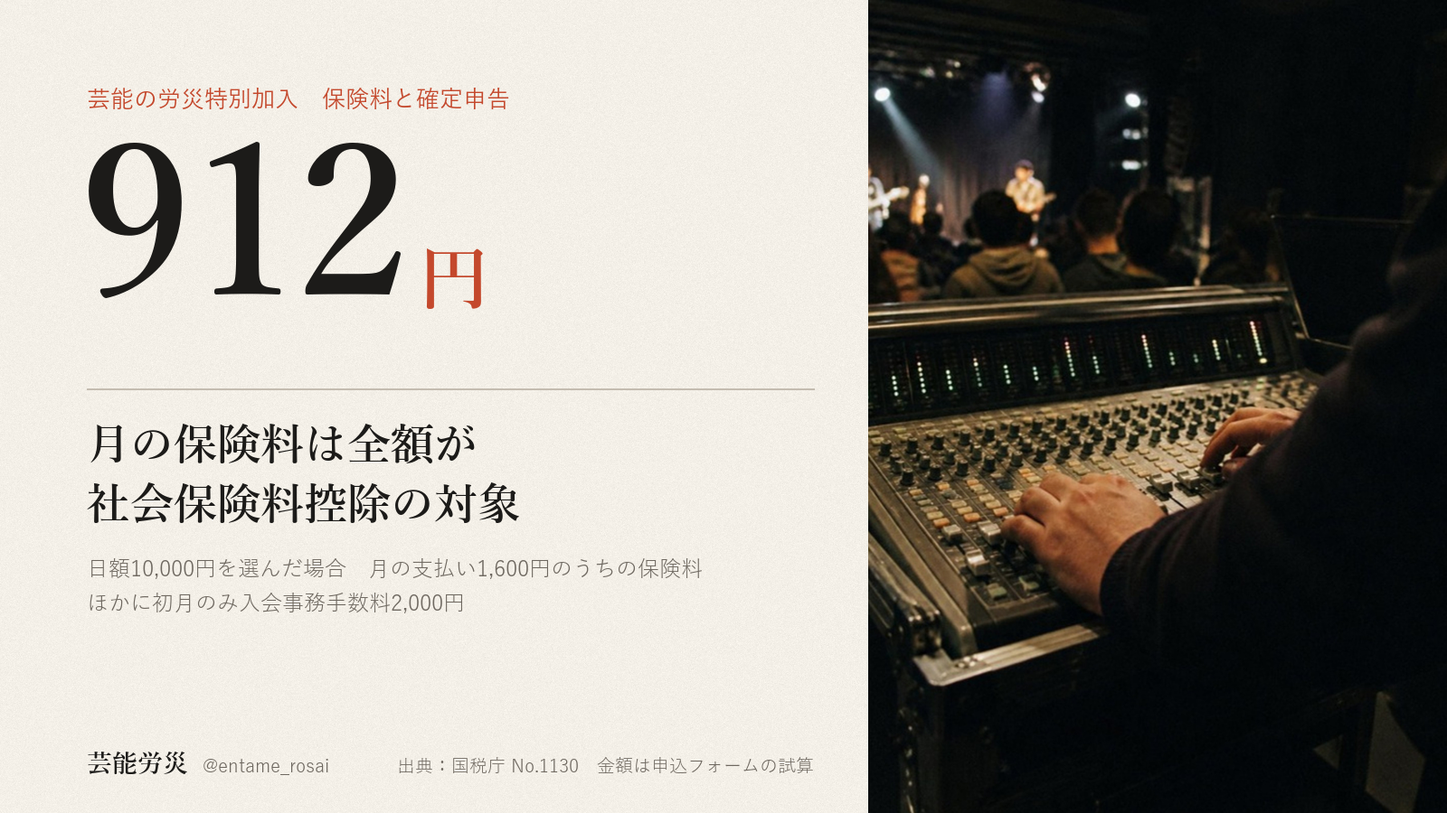
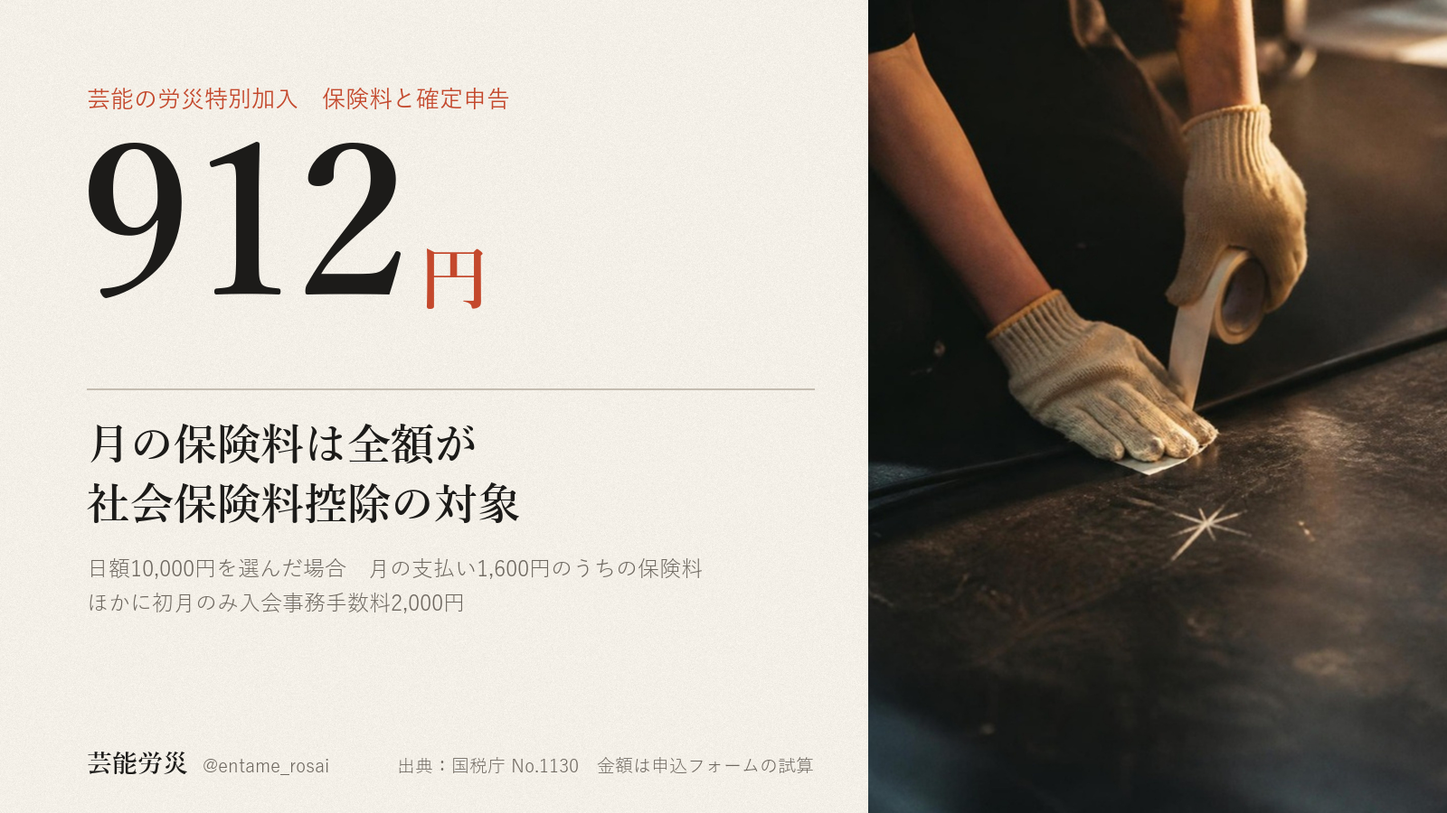
投稿デスク更新 2026-11-12

Changed region(s): [[0.5938, 0.0, 1.0, 1.0], [0.5938, 0.84, 0.6875, 1.0], [0.625, 0.4356, 0.6562, 0.4667]]

diff --git a/index.html b/index.html
@@ -351,7 +351,7 @@ dialog img{width:100%;height:auto;border-radius:18px;display:block}
 <div class="toast" id="toast">コピーしました</div>
 <dialog id="zoom"><img alt=""></dialog>
 
-<script id="desk-data" type="application/json">{"account":"@entame_rosai","days":[{"date":"2026-11-12","label":"11月12日（木）　今日","items":[{"key":"ig","date":"2026-11-01","label":"Instagram（@entame_rosai）","account":"@entame_rosai","text":"労災の特別加入は、申込のときに「何月から入るか」「何か月入るか」「給付基礎日額をいくらにするか」の3つを自分で決めます。\n\n何月から入るかは、11月1日時点の申込フォームでは2026年11月から2027年3月までの中から選べます。何か月入るかは1か月から。公演や撮影の期間に合わせて決められます。\n\n給付基礎日額は、補償の基準になる1日あたりの額です。3,500円から25,000円までの16段階から、実際の収入とは切り離して自分で選びます。\n\n毎月の支払いは、日額10,000円を選んだ場合で月1,600円。内訳は保険料912円、組合費500円、手数料188円です。ほかに入会事務手数料2,000円が初月だけかかるので、初月の支払いは3,600円です。保険料912円の部分は社会保険料控除の対象です。\n\nひとつ大事なことがあります。さかのぼって入ることはできません。補償は申込で選んだ月から始まり、それより前のけがは対象になりません。現場の予定が決まったら、先に手続きを済ませておく形です。\n\n手続きはプロフィール欄のサイトからできます。迷う点があれば、コメントに書いてもらえれば調べます。\n\n私たちは東京労働局長の承認を受けた労災保険特別加入団体で、加入の受付もしている当事者です。そのうえで書いています。特別加入を扱う団体は、私たちのほかにもあります。\n\n※給付の可否・金額は個別の状況により労働基準監督署が判断します。\n※金額は、給付基礎日額10,000円を選んだ場合の例です。","chars":628,"lines":16,"hashtags":0,"limit":0,"status":"生成済・未投稿（本人の投稿許可あり。Chrome で instagram.com を開く操作が承認待ちのまま5分応答がなく送信されず。次に本人がいるときに投稿する）","url":"","images":[{"name":"01.png","path":"assets/2026-11-01/instagram/01.png"},{"name":"02.png","path":"assets/2026-11-01/instagram/02.png"},{"name":"03.png","path":"assets/2026-11-01/instagram/03.png"},{"name":"04.png","path":"assets/2026-11-01/instagram/04.png"},{"name":"05.png","path":"assets/2026-11-01/instagram/05.png"},{"name":"06.png","path":"assets/2026-11-01/instagram/06.png"},{"name":"07.png","path":"assets/2026-11-01/instagram/07.png"}],"alt":"--- 1枚目 ---\n暗い劇場の舞台の縁に腰かけ、赤い客席を見ている人の後ろ姿の写真。文字：フリーランスの労災保険。加入の手続き。申込で決めることと毎月の支払い。さかのぼって入ることはできないので、先に手続きの中身をまとめました。芸能労災 @entame_rosai 01/07\n\n--- 2枚目 ---\n上半分は夕方の住宅街の路上で、ブームマイクを掲げる録音係とカメラを担ぐ撮影係の後ろ姿の写真。下は生成り色の紙面。文字：申込で決めること1。何月から入るか。開始月は申込のときに選びます。11月1日時点では、2026年11月から2027年3月までの中から選べます。補償は、選んだ月から始まります。出典：当団体申込フォーム（11月1日時点）。02/07\n\n--- 3枚目 ---\n右に、屋外のカメラ機材とモニターを操作する手の縦長写真。左は紙面。文字：申込で決めること2。何か月入るか。加入期間は1か月から選べます。公演や撮影の期間に合わせて決められます。何月から何か月かを申込のときにあわせて決めます。出典：当団体申込フォーム（11月1日時点）。03/07\n\n--- 4枚目 ---\n文字だけの紙面。申込で決めること3。16段階。給付基礎日額を3,500円から25,000円まで。4列の一覧：3,500、4,000、5,000、6,000、7,000、8,000、9,000、10,000（朱色）、12,000、14,000、16,000、18,000、20,000、22,000、24,000、25,000。単位は円。補償の基準になる1日あたりの額で、実際の収入とは切り離して自分で選びます。朱色の10,000円を次のページの例に使います。出典：労災保険法（特別加入）。04/07\n\n--- 5枚目 ---\n文字だけの紙面。毎月の支払い。日額10,000円なら月1,600円。表：内訳／月額。保険料 912円。組合費 500円。手数料 188円。合計 1,600円。ほかに入会事務手数料2,000円が初月だけかかります。初月の支払いは3,600円です。支払いのうち保険料912円の部分は、社会保険料控除の対象です。出典：当団体申込フォーム（11月1日時点）。05/07\n\n--- 6枚目 ---\n上に、黒い服のスタッフ2人が大きな機材ケースを運ぶ後ろ姿の写真の帯。下は紙面。文字：大事なこと。さかのぼって入ることはできない。補償の開始：申込で選んだ月から。それより前のけが：対象外。現場の予定が決まったら：先に手続き。手続きはプロフィール欄のサイトから。迷う点があれば、コメントに書いてもらえれば調べます。出典：当団体申込フォーム（11月1日時点）。06/07\n\n--- 7枚目 ---\n舞台袖の衣装ラックと、パイプ椅子の上に開いた台本の写真を暗くした全面。文字：入る月と期間は自分で決められます。何月から何か月入るか、日額をいくらにするか。申込のときに自分で選べます。迷う点があれば、コメントに書いてもらえれば調べます。私たちは東京労働局長の承認を受けた労災保険特別加入団体で、加入の受付もしている当事者です。そのうえで書いています。特別加入を扱う団体は、私たちのほかにもあります。※給付の可否・金額は個別の状況により労働基準監督署が判断します。※金額は、給付基礎日額10,000円を選んだ場合の例です。芸能労災 @entame_rosai 07/07","check":{"errors":[],"warns":[]},"made":"2026-11-01","slot":"2026-11-12"},{"key":"x","date":"2026-11-04","label":"X（@entame_rosai）","account":"@entame_rosai","text":"労災の特別加入で受けられる給付は7種類です。けがの治療にかかる療養、働けない日の休業、1年6か月たっても治らず重い場合の傷病年金、障がいが残ったときの給付、介護、遺族、葬祭料。けがをした日が加入期間に入っていることが条件です。（出典：厚生労働省・労災保険法）","chars":129,"lines":1,"hashtags":0,"limit":140,"status":"（台帳に記載なし）","url":"","images":[{"name":"x_image.png","path":"assets/2026-11-04/x_image/x_image.png"}],"alt":"板張りの稽古場で、バレエシューズを履いたダンサーの足がつま先を伸ばしている写真。左の紙面に次の文字。芸能の労災特別加入　給付は7種類　けがの治療にかかる療養　働けない日の休業　傷病年金　障がい　介護　遺族　葬祭料　けがをした日が加入期間に入っていることが条件　出典：厚生労働省 労災保険法　芸能労災 @entame_rosai","check":{"errors":[],"warns":[]},"made":"2026-11-04","slot":"2026-11-12"}]},{"date":"2026-11-13","label":"11月13日（金）　投稿予定","items":[{"key":"x","date":"2026-11-05","label":"X（@entame_rosai）","account":"@entame_rosai","text":"労災の特別加入の申込で最初の月に払う額は、日額10,000円を選んだ場合3,600円です。内訳は月の支払い1,600円（保険料912円＋組合費500円＋手数料188円）と、初月だけの入会事務手数料2,000円。支払いはクレジットカードか銀行振込。（当団体申込フォームの試算）","chars":137,"lines":1,"hashtags":0,"limit":140,"status":"（台帳に記載なし）","url":"","images":[{"name":"x_image.png","path":"assets/2026-11-05/x_image/x_image.png"}],"alt":"舞台袖の机で、ヘッドセットを置いた手元に台本を広げる舞台監督。奥の舞台では稽古中の出演者が照明に照らされている。左の紙面の文字：芸能の労災特別加入　最初の月に払う額は3,600円　内訳　日額10,000円の場合　保険料 912円　組合費 500円　手数料 188円　入会事務手数料 2,000円　入会事務手数料は初月だけ　2か月目からは月1,600円　支払いはクレジットカードか銀行振込　芸能労災 @entame_rosai　出典：当団体の申込フォームの試算","check":{"errors":[],"warns":[]},"made":"2026-11-05","slot":"2026-11-13"}]},{"date":"2026-11-14","label":"11月14日（土）　投稿予定","items":[{"key":"x","date":"2026-11-06","label":"X（@entame_rosai）","account":"@entame_rosai","text":"労災の特別加入に加入の審査はありません。年齢や持病、危険の大きい仕事を理由に断られず、保険料の割増もありません。日額10,000円を選んだ場合、月1,600円（保険料912円＋組合費500円＋手数料188円）、初月だけ入会事務手数料2,000円です。（当団体申込フォームの試算）","chars":139,"lines":1,"hashtags":0,"limit":140,"status":"（台帳に記載なし）","url":"","images":[{"name":"x_image.png","path":"assets/2026-11-06/x_image/x_image.png"}],"alt":"木の壁の稽古場で、青いマットの上で黒い練習着のアクション俳優が後ろ向きに脚を開いてストレッチをしている。奥の窓から光が入っている。左の紙面の文字：芸能の労災特別加入　加入に審査はない　年齢や持病を理由に断られない　危険の大きい仕事でも割増なし　日額10,000円の場合　月1,600円　保険料912円＋組合費500円＋手数料188円　初月だけ入会事務手数料2,000円　日額は3,500円から25,000円まで自分で選ぶ　芸能労災 @entame_rosai　出典：当団体の申込フォームの試算","check":{"errors":[],"warns":[]},"made":"2026-11-06","slot":"2026-11-14"}]},{"date":"2026-11-15","label":"11月15日（日）　投稿予定","items":[{"key":"x","date":"2026-11-07","label":"X（@entame_rosai）","account":"@entame_rosai","text":"労災の特別加入の給付基礎日額は、申込のときに3,500円から25,000円までの16段階から自分で選びます。給付の額も保険料も、この日額で決まります。日額10,000円を選んだ場合、月の支払い1,600円と初月だけ入会事務手数料2,000円です。（当団体申込フォーム）","chars":134,"lines":1,"hashtags":0,"limit":140,"status":"（台帳に記載なし）","url":"","images":[{"name":"x_image.png","path":"assets/2026-11-07/x_image/x_image.png"}],"alt":"薄い紙色の面の右半分に、暗い劇場の客席を背に脚立の上で照明をつるす作業をするスタッフの写真。左に文字。芸能の労災特別加入　給付基礎日額／16段階／3,500円から25,000円まで　申込のときに自分で選ぶ／給付の額も保険料もこの日額で決まる　日額10,000円の場合　月の支払い1,600円　初月だけ入会事務手数料2,000円／芸能労災 @entame_rosai／出典：当団体の申込フォーム","check":{"errors":[],"warns":[]},"made":"2026-11-07","slot":"2026-11-15"}]},{"date":"2026-11-16","label":"11月16日（月）　投稿予定","items":[{"key":"x","date":"2026-11-08","label":"X（@entame_rosai）","account":"@entame_rosai","text":"労災の特別加入の保険料率は、芸能の仕事なら職種で変わりません。アクションでもダンスでも照明でも一律0.3%です。日額10,000円を選んだ場合、月の支払い1,600円と初月だけ入会事務手数料2,000円です。（厚労省の特別加入保険料率表・当団体申込フォーム）","chars":129,"lines":1,"hashtags":0,"limit":140,"status":"（台帳に記載なし）","url":"","images":[{"name":"x_image.png","path":"assets/2026-11-08/x_image/x_image.png"}],"alt":"右半分は青空を背景にした屋外ステージの照明トラスの写真。アルミのトラスに舞台用のスポットライトが5灯ほど吊られている。左半分は紙の色の面に文字。芸能の労災特別加入　保険料率／芸能の仕事なら 職種で変わらない／職種 保険料率／アクション 0.3%／ダンス 0.3%／照明・音響 0.3%／日額10,000円の場合　月の支払い1,600円／初月だけ入会事務手数料2,000円／芸能労災 @entame_rosai／出典：厚労省 料率表／当団体の申込フォーム","check":{"errors":[],"warns":["競合の調査由来かもしれない数字/語: 0.3%　… …職種で変わりません。アクションでもダンスでも照明でも一律0.3%です。日額10,000円を選んだ場合、月の支払い1,60…"]},"made":"2026-11-08","slot":"2026-11-16"}]},{"date":"2026-11-17","label":"11月17日（火）　投稿予定","items":[{"key":"x","date":"2026-11-09","label":"X（@entame_rosai）","account":"@entame_rosai","text":"労災の特別加入で仕事中のけがにより障がいが残ったとき、重い等級（1〜7級）の給付は一時金ではなく年金で、毎年続きます。日額10,000円を選んだ場合、1級で年313万円（日額の313日分）です。8〜14級は一時金です。（労災保険法 別表第1・当団体申込フォーム）","chars":131,"lines":1,"hashtags":0,"limit":140,"status":"（台帳に記載なし）","url":"","images":[{"name":"x_image.png","path":"assets/2026-11-09/x_image/x_image.png"}],"alt":"青い照明の暗い舞台に、木の椅子が4脚並んでいる写真。左の紙面に次の文字。芸能の労災特別加入　障がいが残ったとき。一時金ではなく年金で続く。重い等級（1〜7級）の給付は年金。日額10,000円を選んだ場合。1級で年313万円（日額の313日分）。8〜14級は一時金。芸能労災 @entame_rosai。出典：労災保険法 別表第1／当団体の申込フォーム","check":{"errors":[],"warns":[]},"made":"2026-11-09","slot":"2026-11-17"}]},{"date":"2026-11-18","label":"11月18日（水）　投稿予定","items":[{"key":"x","date":"2026-11-10","label":"X（@entame_rosai）","account":"@entame_rosai","text":"労災の特別加入は、現場へ向かう途中と帰り道のけがも通勤災害として対象です。芸能の仕事は適用から外れていません。ただし対象は合理的な経路に限られ、寄り道すると、その間とその後の移動は原則対象外です。給付は仕事中のけがと同じです。（労災保険法第7条・厚労省 特別加入制度のしおり）","chars":138,"lines":1,"hashtags":0,"limit":140,"status":"（台帳に記載なし）","url":"","images":[{"name":"x_image.png","path":"assets/2026-11-10/x_image/x_image.png"}],"alt":"ポスターが貼られた狭い廊下を、ギターケースを提げた長髪の人が奥へ歩いていく後ろ姿の写真。左の紙面に次の文字。芸能の労災特別加入　通勤災害。行き帰りのけがも対象。場面／労災の扱い。現場へ向かう途中／対象。現場からの帰り道／対象。経路外に寄り道／原則対象外。寄り道の間とその後の移動は原則対象外　給付は仕事中のけがと同じ。芸能労災 @entame_rosai。出典：労災保険法第7条／厚労省 特別加入のしおり","check":{"errors":[],"warns":[]},"made":"2026-11-10","slot":"2026-11-18"}]},{"date":"2026-11-19","label":"11月19日（木）　投稿予定","items":[{"key":"x","date":"2026-11-11","label":"X（@entame_rosai）","account":"@entame_rosai","text":"労災の特別加入で仕事中のけがを治療するとき、治療費に金額の上限も、決まった期間の上限もありません。症状が固定する（治療を続けても変わらない状態になる）まで療養給付の対象です。労災指定の医療機関なら窓口での支払いはありません。どの日額を選んでも同じです。（労災保険法第13条）","chars":137,"lines":1,"hashtags":0,"limit":140,"status":"（台帳に記載なし）","url":"","images":[{"name":"x_image.png","path":"assets/2026-11-11/x_image/x_image.png"}],"alt":"暗い稽古場の床に座り、足首にテーピングを巻いているダンサーの足元の写真。左の紙面に次の文字。芸能の労災特別加入　仕事中のけがの治療。治療費に上限なし。金額にも期間にも上限なし。症状が固定するまで療養給付の対象。労災指定の医療機関なら窓口での支払いなし。症状の固定＝治療を続けても変わらない状態。どの日額を選んでも同じ。芸能労災 @entame_rosai。出典：労災保険法第13条","check":{"errors":[],"warns":[]},"made":"2026-11-11","slot":"2026-11-19"}]},{"date":"2026-11-20","label":"11月20日（金）　投稿予定","items":[{"key":"x","date":"2026-11-12","label":"X（@entame_rosai）","account":"@entame_rosai","text":"労災の特別加入の保険料は、全額が社会保険料控除の対象です。確定申告で所得から差し引けます。日額10,000円を選んだ場合、月の支払い1,600円のうち保険料は912円で、控除できるのはこの部分です。ほかに初月のみ入会事務手数料2,000円。（国税庁 No.1130）","chars":133,"lines":1,"hashtags":0,"limit":140,"status":"（台帳に記載なし）","url":"","images":[{"name":"x_image.png","path":"assets/2026-11-12/x_image/x_image.png"}],"alt":"ライブ会場の客席後方で、音響卓のつまみに両手を置いている人の手元の写真。奥に照明の当たったステージと観客の後ろ姿。左の紙面に次の文字。芸能の労災特別加入　保険料と確定申告。912円。月の保険料は全額が社会保険料控除の対象。日額10,000円を選んだ場合　月の支払い1,600円のうちの保険料。ほかに初月のみ入会事務手数料2,000円。芸能労災 @entame_rosai。出典：国税庁 No.1130　金額は申込フォームの試算","check":{"errors":[],"warns":[]},"made":"2026-11-12","slot":"2026-11-20"}]}],"todo":[{"due":"今日","who":"作業者","title":"X（@entame_rosai）の今日の投稿","detail":"画像1枚を添付 → 代替テキストを入れる → 本文を貼る、の順。代替テキストは直近の投稿で入っていません。X は投稿後に足せません。","cid":"c-2026-11-04-x"},{"due":"今日","who":"作業者","title":"Instagram を1本投稿（11/1（日）作成の分）","detail":"画像7枚をこの順で添付し、1枚ずつ代替テキストを入れる。未投稿は1本。前回の公開から1週間あけて1本ずつ。","cid":"c-2026-11-01-ig"},{"due":"未公開のまま","who":"矢部さん","title":"note の記事を公開（09/18作成）","detail":"このデスクには載っていません（note は矢部さんの手元の下書き）。公開するときは見出し画像を必ず設定。","cid":""},{"due":"未公開のまま","who":"矢部さん","title":"note の記事を公開（10/09作成）","detail":"このデスクには載っていません（note は矢部さんの手元の下書き）。公開するときは見出し画像を必ず設定。","cid":""},{"due":"投稿のたび","who":"作業者","title":"投稿URLと名前を、そのカードの欄に保存","detail":"記録が集まらないと、何が出たかを後から確かめられません。","cid":""}],"builtAt":"2026-11-12 07:45","today":"2026-11-12","followers":{"date":"10-13","x":5,"ig":21,"note":0},"hero":"assets/hero.jpg","endpoint":"https://script.google.com/macros/s/AKfycbxhxM75PszpPOX_HDJ4yuBmQSqu1b7CXq2sbCxlqTZ_TyF8hROH2MyKnYNU11avb8UQCA/exec"}</script>
+<script id="desk-data" type="application/json">{"account":"@entame_rosai","days":[{"date":"2026-11-12","label":"11月12日（木）　今日","items":[{"key":"ig","date":"2026-11-01","label":"Instagram（@entame_rosai）","account":"@entame_rosai","text":"労災の特別加入は、申込のときに「何月から入るか」「何か月入るか」「給付基礎日額をいくらにするか」の3つを自分で決めます。\n\n何月から入るかは、11月1日時点の申込フォームでは2026年11月から2027年3月までの中から選べます。何か月入るかは1か月から。公演や撮影の期間に合わせて決められます。\n\n給付基礎日額は、補償の基準になる1日あたりの額です。3,500円から25,000円までの16段階から、実際の収入とは切り離して自分で選びます。\n\n毎月の支払いは、日額10,000円を選んだ場合で月1,600円。内訳は保険料912円、組合費500円、手数料188円です。ほかに入会事務手数料2,000円が初月だけかかるので、初月の支払いは3,600円です。保険料912円の部分は社会保険料控除の対象です。\n\nひとつ大事なことがあります。さかのぼって入ることはできません。補償は申込で選んだ月から始まり、それより前のけがは対象になりません。現場の予定が決まったら、先に手続きを済ませておく形です。\n\n手続きはプロフィール欄のサイトからできます。迷う点があれば、コメントに書いてもらえれば調べます。\n\n私たちは東京労働局長の承認を受けた労災保険特別加入団体で、加入の受付もしている当事者です。そのうえで書いています。特別加入を扱う団体は、私たちのほかにもあります。\n\n※給付の可否・金額は個別の状況により労働基準監督署が判断します。\n※金額は、給付基礎日額10,000円を選んだ場合の例です。","chars":628,"lines":16,"hashtags":0,"limit":0,"status":"生成済・未投稿（本人の投稿許可あり。Chrome で instagram.com を開く操作が承認待ちのまま5分応答がなく送信されず。次に本人がいるときに投稿する）","url":"","images":[{"name":"01.png","path":"assets/2026-11-01/instagram/01.png"},{"name":"02.png","path":"assets/2026-11-01/instagram/02.png"},{"name":"03.png","path":"assets/2026-11-01/instagram/03.png"},{"name":"04.png","path":"assets/2026-11-01/instagram/04.png"},{"name":"05.png","path":"assets/2026-11-01/instagram/05.png"},{"name":"06.png","path":"assets/2026-11-01/instagram/06.png"},{"name":"07.png","path":"assets/2026-11-01/instagram/07.png"}],"alt":"--- 1枚目 ---\n暗い劇場の舞台の縁に腰かけ、赤い客席を見ている人の後ろ姿の写真。文字：フリーランスの労災保険。加入の手続き。申込で決めることと毎月の支払い。さかのぼって入ることはできないので、先に手続きの中身をまとめました。芸能労災 @entame_rosai 01/07\n\n--- 2枚目 ---\n上半分は夕方の住宅街の路上で、ブームマイクを掲げる録音係とカメラを担ぐ撮影係の後ろ姿の写真。下は生成り色の紙面。文字：申込で決めること1。何月から入るか。開始月は申込のときに選びます。11月1日時点では、2026年11月から2027年3月までの中から選べます。補償は、選んだ月から始まります。出典：当団体申込フォーム（11月1日時点）。02/07\n\n--- 3枚目 ---\n右に、屋外のカメラ機材とモニターを操作する手の縦長写真。左は紙面。文字：申込で決めること2。何か月入るか。加入期間は1か月から選べます。公演や撮影の期間に合わせて決められます。何月から何か月かを申込のときにあわせて決めます。出典：当団体申込フォーム（11月1日時点）。03/07\n\n--- 4枚目 ---\n文字だけの紙面。申込で決めること3。16段階。給付基礎日額を3,500円から25,000円まで。4列の一覧：3,500、4,000、5,000、6,000、7,000、8,000、9,000、10,000（朱色）、12,000、14,000、16,000、18,000、20,000、22,000、24,000、25,000。単位は円。補償の基準になる1日あたりの額で、実際の収入とは切り離して自分で選びます。朱色の10,000円を次のページの例に使います。出典：労災保険法（特別加入）。04/07\n\n--- 5枚目 ---\n文字だけの紙面。毎月の支払い。日額10,000円なら月1,600円。表：内訳／月額。保険料 912円。組合費 500円。手数料 188円。合計 1,600円。ほかに入会事務手数料2,000円が初月だけかかります。初月の支払いは3,600円です。支払いのうち保険料912円の部分は、社会保険料控除の対象です。出典：当団体申込フォーム（11月1日時点）。05/07\n\n--- 6枚目 ---\n上に、黒い服のスタッフ2人が大きな機材ケースを運ぶ後ろ姿の写真の帯。下は紙面。文字：大事なこと。さかのぼって入ることはできない。補償の開始：申込で選んだ月から。それより前のけが：対象外。現場の予定が決まったら：先に手続き。手続きはプロフィール欄のサイトから。迷う点があれば、コメントに書いてもらえれば調べます。出典：当団体申込フォーム（11月1日時点）。06/07\n\n--- 7枚目 ---\n舞台袖の衣装ラックと、パイプ椅子の上に開いた台本の写真を暗くした全面。文字：入る月と期間は自分で決められます。何月から何か月入るか、日額をいくらにするか。申込のときに自分で選べます。迷う点があれば、コメントに書いてもらえれば調べます。私たちは東京労働局長の承認を受けた労災保険特別加入団体で、加入の受付もしている当事者です。そのうえで書いています。特別加入を扱う団体は、私たちのほかにもあります。※給付の可否・金額は個別の状況により労働基準監督署が判断します。※金額は、給付基礎日額10,000円を選んだ場合の例です。芸能労災 @entame_rosai 07/07","check":{"errors":[],"warns":[]},"made":"2026-11-01","slot":"2026-11-12"},{"key":"x","date":"2026-11-04","label":"X（@entame_rosai）","account":"@entame_rosai","text":"労災の特別加入で受けられる給付は7種類です。けがの治療にかかる療養、働けない日の休業、1年6か月たっても治らず重い場合の傷病年金、障がいが残ったときの給付、介護、遺族、葬祭料。けがをした日が加入期間に入っていることが条件です。（出典：厚生労働省・労災保険法）","chars":129,"lines":1,"hashtags":0,"limit":140,"status":"（台帳に記載なし）","url":"","images":[{"name":"x_image.png","path":"assets/2026-11-04/x_image/x_image.png"}],"alt":"板張りの稽古場で、バレエシューズを履いたダンサーの足がつま先を伸ばしている写真。左の紙面に次の文字。芸能の労災特別加入　給付は7種類　けがの治療にかかる療養　働けない日の休業　傷病年金　障がい　介護　遺族　葬祭料　けがをした日が加入期間に入っていることが条件　出典：厚生労働省 労災保険法　芸能労災 @entame_rosai","check":{"errors":[],"warns":[]},"made":"2026-11-04","slot":"2026-11-12"}]},{"date":"2026-11-13","label":"11月13日（金）　投稿予定","items":[{"key":"x","date":"2026-11-05","label":"X（@entame_rosai）","account":"@entame_rosai","text":"労災の特別加入の申込で最初の月に払う額は、日額10,000円を選んだ場合3,600円です。内訳は月の支払い1,600円（保険料912円＋組合費500円＋手数料188円）と、初月だけの入会事務手数料2,000円。支払いはクレジットカードか銀行振込。（当団体申込フォームの試算）","chars":137,"lines":1,"hashtags":0,"limit":140,"status":"（台帳に記載なし）","url":"","images":[{"name":"x_image.png","path":"assets/2026-11-05/x_image/x_image.png"}],"alt":"舞台袖の机で、ヘッドセットを置いた手元に台本を広げる舞台監督。奥の舞台では稽古中の出演者が照明に照らされている。左の紙面の文字：芸能の労災特別加入　最初の月に払う額は3,600円　内訳　日額10,000円の場合　保険料 912円　組合費 500円　手数料 188円　入会事務手数料 2,000円　入会事務手数料は初月だけ　2か月目からは月1,600円　支払いはクレジットカードか銀行振込　芸能労災 @entame_rosai　出典：当団体の申込フォームの試算","check":{"errors":[],"warns":[]},"made":"2026-11-05","slot":"2026-11-13"}]},{"date":"2026-11-14","label":"11月14日（土）　投稿予定","items":[{"key":"x","date":"2026-11-06","label":"X（@entame_rosai）","account":"@entame_rosai","text":"労災の特別加入に加入の審査はありません。年齢や持病、危険の大きい仕事を理由に断られず、保険料の割増もありません。日額10,000円を選んだ場合、月1,600円（保険料912円＋組合費500円＋手数料188円）、初月だけ入会事務手数料2,000円です。（当団体申込フォームの試算）","chars":139,"lines":1,"hashtags":0,"limit":140,"status":"（台帳に記載なし）","url":"","images":[{"name":"x_image.png","path":"assets/2026-11-06/x_image/x_image.png"}],"alt":"木の壁の稽古場で、青いマットの上で黒い練習着のアクション俳優が後ろ向きに脚を開いてストレッチをしている。奥の窓から光が入っている。左の紙面の文字：芸能の労災特別加入　加入に審査はない　年齢や持病を理由に断られない　危険の大きい仕事でも割増なし　日額10,000円の場合　月1,600円　保険料912円＋組合費500円＋手数料188円　初月だけ入会事務手数料2,000円　日額は3,500円から25,000円まで自分で選ぶ　芸能労災 @entame_rosai　出典：当団体の申込フォームの試算","check":{"errors":[],"warns":[]},"made":"2026-11-06","slot":"2026-11-14"}]},{"date":"2026-11-15","label":"11月15日（日）　投稿予定","items":[{"key":"x","date":"2026-11-07","label":"X（@entame_rosai）","account":"@entame_rosai","text":"労災の特別加入の給付基礎日額は、申込のときに3,500円から25,000円までの16段階から自分で選びます。給付の額も保険料も、この日額で決まります。日額10,000円を選んだ場合、月の支払い1,600円と初月だけ入会事務手数料2,000円です。（当団体申込フォーム）","chars":134,"lines":1,"hashtags":0,"limit":140,"status":"（台帳に記載なし）","url":"","images":[{"name":"x_image.png","path":"assets/2026-11-07/x_image/x_image.png"}],"alt":"薄い紙色の面の右半分に、暗い劇場の客席を背に脚立の上で照明をつるす作業をするスタッフの写真。左に文字。芸能の労災特別加入　給付基礎日額／16段階／3,500円から25,000円まで　申込のときに自分で選ぶ／給付の額も保険料もこの日額で決まる　日額10,000円の場合　月の支払い1,600円　初月だけ入会事務手数料2,000円／芸能労災 @entame_rosai／出典：当団体の申込フォーム","check":{"errors":[],"warns":[]},"made":"2026-11-07","slot":"2026-11-15"}]},{"date":"2026-11-16","label":"11月16日（月）　投稿予定","items":[{"key":"x","date":"2026-11-08","label":"X（@entame_rosai）","account":"@entame_rosai","text":"労災の特別加入の保険料率は、芸能の仕事なら職種で変わりません。アクションでもダンスでも照明でも一律0.3%です。日額10,000円を選んだ場合、月の支払い1,600円と初月だけ入会事務手数料2,000円です。（厚労省の特別加入保険料率表・当団体申込フォーム）","chars":129,"lines":1,"hashtags":0,"limit":140,"status":"（台帳に記載なし）","url":"","images":[{"name":"x_image.png","path":"assets/2026-11-08/x_image/x_image.png"}],"alt":"右半分は青空を背景にした屋外ステージの照明トラスの写真。アルミのトラスに舞台用のスポットライトが5灯ほど吊られている。左半分は紙の色の面に文字。芸能の労災特別加入　保険料率／芸能の仕事なら 職種で変わらない／職種 保険料率／アクション 0.3%／ダンス 0.3%／照明・音響 0.3%／日額10,000円の場合　月の支払い1,600円／初月だけ入会事務手数料2,000円／芸能労災 @entame_rosai／出典：厚労省 料率表／当団体の申込フォーム","check":{"errors":[],"warns":["競合の調査由来かもしれない数字/語: 0.3%　… …職種で変わりません。アクションでもダンスでも照明でも一律0.3%です。日額10,000円を選んだ場合、月の支払い1,60…"]},"made":"2026-11-08","slot":"2026-11-16"}]},{"date":"2026-11-17","label":"11月17日（火）　投稿予定","items":[{"key":"x","date":"2026-11-09","label":"X（@entame_rosai）","account":"@entame_rosai","text":"労災の特別加入で仕事中のけがにより障がいが残ったとき、重い等級（1〜7級）の給付は一時金ではなく年金で、毎年続きます。日額10,000円を選んだ場合、1級で年313万円（日額の313日分）です。8〜14級は一時金です。（労災保険法 別表第1・当団体申込フォーム）","chars":131,"lines":1,"hashtags":0,"limit":140,"status":"（台帳に記載なし）","url":"","images":[{"name":"x_image.png","path":"assets/2026-11-09/x_image/x_image.png"}],"alt":"青い照明の暗い舞台に、木の椅子が4脚並んでいる写真。左の紙面に次の文字。芸能の労災特別加入　障がいが残ったとき。一時金ではなく年金で続く。重い等級（1〜7級）の給付は年金。日額10,000円を選んだ場合。1級で年313万円（日額の313日分）。8〜14級は一時金。芸能労災 @entame_rosai。出典：労災保険法 別表第1／当団体の申込フォーム","check":{"errors":[],"warns":[]},"made":"2026-11-09","slot":"2026-11-17"}]},{"date":"2026-11-18","label":"11月18日（水）　投稿予定","items":[{"key":"x","date":"2026-11-10","label":"X（@entame_rosai）","account":"@entame_rosai","text":"労災の特別加入は、現場へ向かう途中と帰り道のけがも通勤災害として対象です。芸能の仕事は適用から外れていません。ただし対象は合理的な経路に限られ、寄り道すると、その間とその後の移動は原則対象外です。給付は仕事中のけがと同じです。（労災保険法第7条・厚労省 特別加入制度のしおり）","chars":138,"lines":1,"hashtags":0,"limit":140,"status":"（台帳に記載なし）","url":"","images":[{"name":"x_image.png","path":"assets/2026-11-10/x_image/x_image.png"}],"alt":"ポスターが貼られた狭い廊下を、ギターケースを提げた長髪の人が奥へ歩いていく後ろ姿の写真。左の紙面に次の文字。芸能の労災特別加入　通勤災害。行き帰りのけがも対象。場面／労災の扱い。現場へ向かう途中／対象。現場からの帰り道／対象。経路外に寄り道／原則対象外。寄り道の間とその後の移動は原則対象外　給付は仕事中のけがと同じ。芸能労災 @entame_rosai。出典：労災保険法第7条／厚労省 特別加入のしおり","check":{"errors":[],"warns":[]},"made":"2026-11-10","slot":"2026-11-18"}]},{"date":"2026-11-19","label":"11月19日（木）　投稿予定","items":[{"key":"x","date":"2026-11-11","label":"X（@entame_rosai）","account":"@entame_rosai","text":"労災の特別加入で仕事中のけがを治療するとき、治療費に金額の上限も、決まった期間の上限もありません。症状が固定する（治療を続けても変わらない状態になる）まで療養給付の対象です。労災指定の医療機関なら窓口での支払いはありません。どの日額を選んでも同じです。（労災保険法第13条）","chars":137,"lines":1,"hashtags":0,"limit":140,"status":"（台帳に記載なし）","url":"","images":[{"name":"x_image.png","path":"assets/2026-11-11/x_image/x_image.png"}],"alt":"暗い稽古場の床に座り、足首にテーピングを巻いているダンサーの足元の写真。左の紙面に次の文字。芸能の労災特別加入　仕事中のけがの治療。治療費に上限なし。金額にも期間にも上限なし。症状が固定するまで療養給付の対象。労災指定の医療機関なら窓口での支払いなし。症状の固定＝治療を続けても変わらない状態。どの日額を選んでも同じ。芸能労災 @entame_rosai。出典：労災保険法第13条","check":{"errors":[],"warns":[]},"made":"2026-11-11","slot":"2026-11-19"}]},{"date":"2026-11-20","label":"11月20日（金）　投稿予定","items":[{"key":"x","date":"2026-11-12","label":"X（@entame_rosai）","account":"@entame_rosai","text":"労災の特別加入の保険料は、全額が社会保険料控除の対象です。確定申告で所得から差し引けます。日額10,000円を選んだ場合、月の支払い1,600円のうち保険料は912円で、対象になるのはこの部分です。ほかに初月のみ入会事務手数料2,000円。（国税庁 No.1130）","chars":133,"lines":1,"hashtags":0,"limit":140,"status":"（台帳に記載なし）","url":"","images":[{"name":"x_image.png","path":"assets/2026-11-12/x_image/x_image.png"}],"alt":"軍手をはめた両手が、舞台の黒い床に白いテープで立ち位置の目印を貼っている手元の写真。顔は写っていない。左の紙面に次の文字。芸能の労災特別加入　保険料と確定申告。912円。月の保険料は全額が社会保険料控除の対象。日額10,000円を選んだ場合　月の支払い1,600円のうちの保険料。ほかに初月のみ入会事務手数料2,000円。芸能労災 @entame_rosai。出典：国税庁 No.1130　金額は申込フォームの試算","check":{"errors":[],"warns":[]},"made":"2026-11-12","slot":"2026-11-20"}]}],"todo":[{"due":"今日","who":"作業者","title":"X（@entame_rosai）の今日の投稿","detail":"画像1枚を添付 → 代替テキストを入れる → 本文を貼る、の順。代替テキストは直近の投稿で入っていません。X は投稿後に足せません。","cid":"c-2026-11-04-x"},{"due":"今日","who":"作業者","title":"Instagram を1本投稿（11/1（日）作成の分）","detail":"画像7枚をこの順で添付し、1枚ずつ代替テキストを入れる。未投稿は1本。前回の公開から1週間あけて1本ずつ。","cid":"c-2026-11-01-ig"},{"due":"未公開のまま","who":"矢部さん","title":"note の記事を公開（09/18作成）","detail":"このデスクには載っていません（note は矢部さんの手元の下書き）。公開するときは見出し画像を必ず設定。","cid":""},{"due":"未公開のまま","who":"矢部さん","title":"note の記事を公開（10/09作成）","detail":"このデスクには載っていません（note は矢部さんの手元の下書き）。公開するときは見出し画像を必ず設定。","cid":""},{"due":"投稿のたび","who":"作業者","title":"投稿URLと名前を、そのカードの欄に保存","detail":"記録が集まらないと、何が出たかを後から確かめられません。","cid":""}],"builtAt":"2026-11-12 07:47","today":"2026-11-12","followers":{"date":"10-13","x":5,"ig":21,"note":0},"hero":"assets/hero.jpg","endpoint":"https://script.google.com/macros/s/AKfycbxhxM75PszpPOX_HDJ4yuBmQSqu1b7CXq2sbCxlqTZ_TyF8hROH2MyKnYNU11avb8UQCA/exec"}</script>
 <script>
 (function(){
   var DATA = JSON.parse(document.getElementById('desk-data').textContent);
